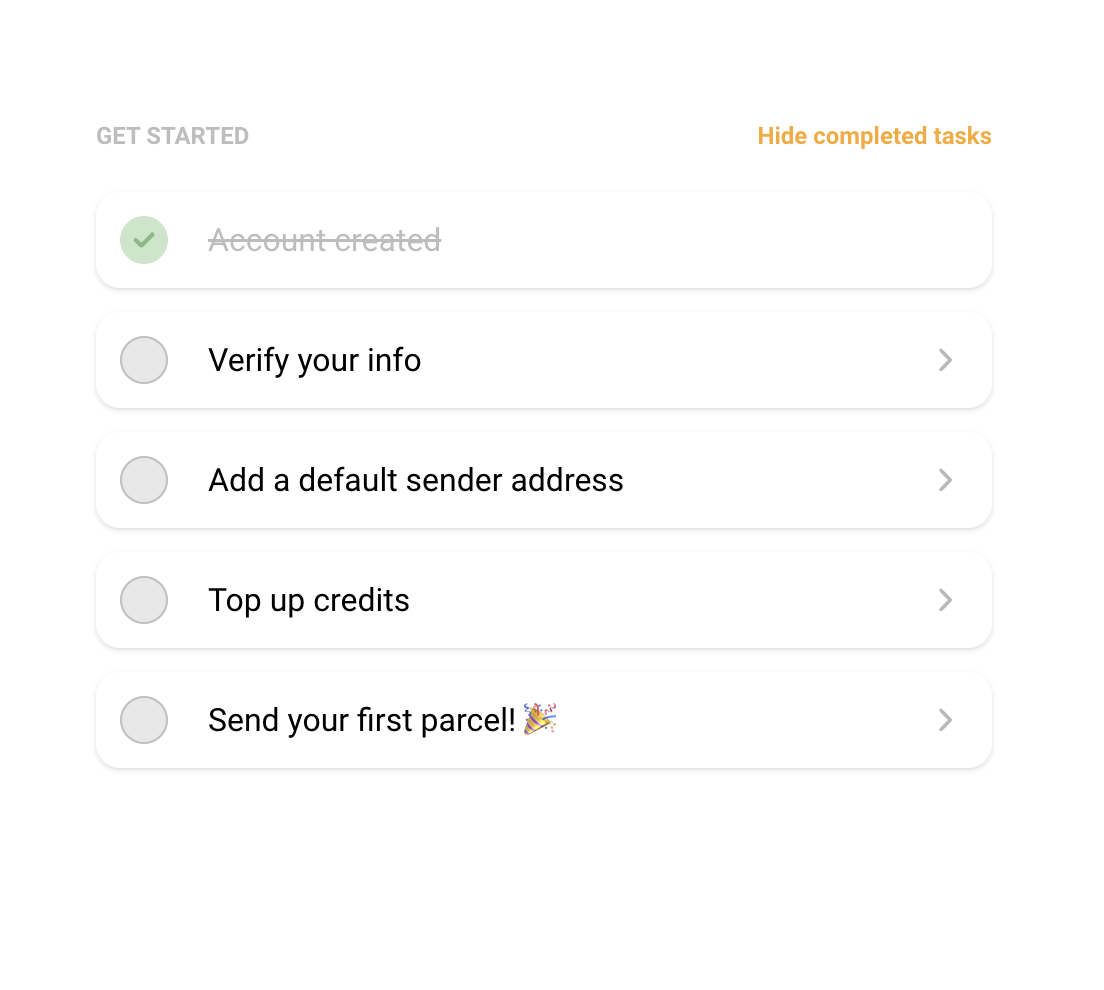
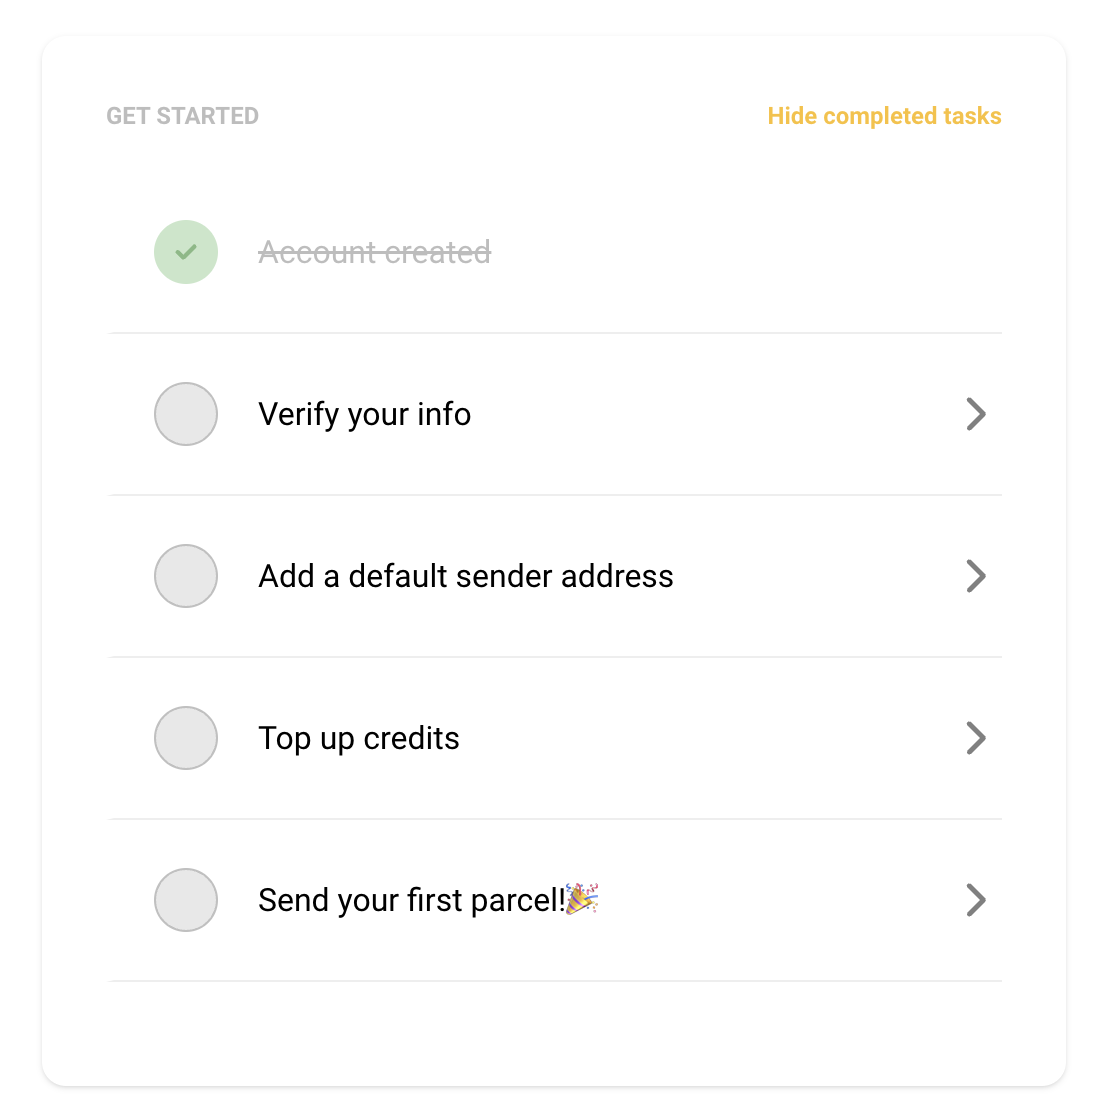
fix: change image name to preview-2 to force change on readme and avoid cache on github

diff --git a/README.md b/README.md
@@ -2,7 +2,7 @@
 
 React To Do List with Tailwind CSS
 
-![Preview](public/assets/png/preview.png)
+![Preview](public/assets/png/preview-2.png)
 
 ## Run Locally
 
